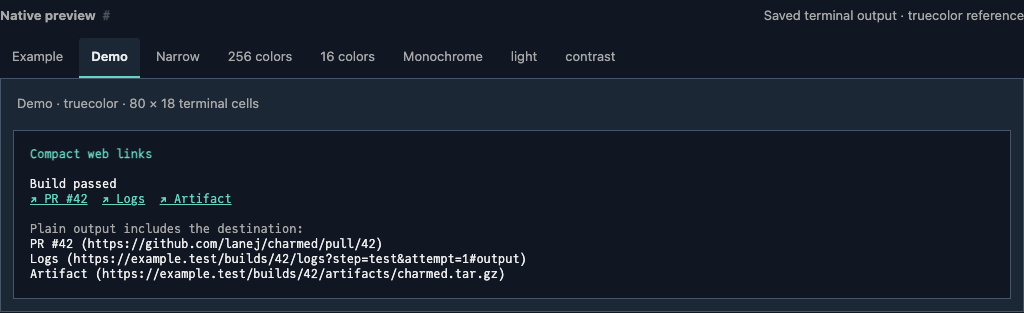
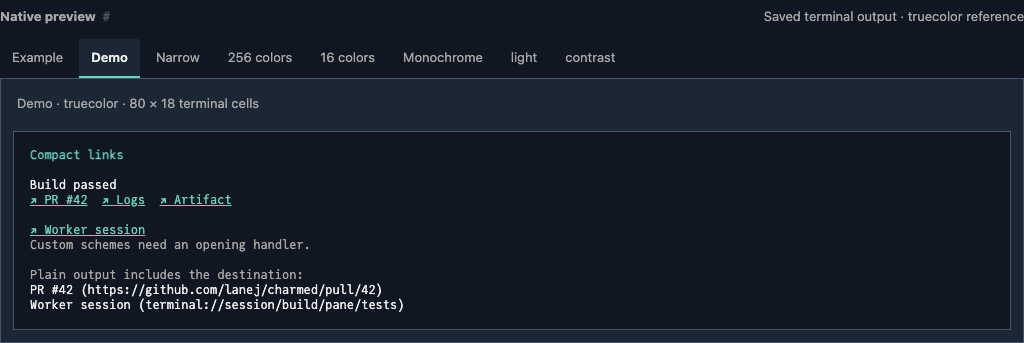
feat(text): layer web links over URI links
Detected-By: V3a

diff --git a/text/link_test.go b/text/link_test.go
@@ -93,7 +93,7 @@ func TestLinkEscapesLabelsAndRejectsInvalidTargets(t *testing.T) {
 		}
 	}
 
-	for _, target := range []string{"", "/relative", "https:opaque", "https:///no-host", "https://:443/path", "https://example.test/%zz", "file:///tmp/test", "javascript:alert(1)", "terminal://session/worker", "https://example.test/with space", "https://example.test/\n", "https://example.test/\x1b\\", "https://example.test/\a", "https://example.test/\u009c", "https://example.test/\u202e", "https://example.test/\xff"} {
+	for _, target := range []string{"", "/relative", "//example.test/path", "1bad:target", "https://[::", "https://example.test/%zz", "https://example.test/?q=%zz", "mailto:dev@example.test?subject=%zz", "custom:%zz", "custom:incomplete%", "https://example.test/with space", "https://example.test/\n", "https://example.test/\x1b\\", "https://example.test/\a", "https://example.test/\u009c", "https://example.test/\u202e", "https://example.test/\xff"} {
 		invalid := text.Link{Label: "Logs", URL: target}
 		if got, err := invalid.View(palette); err == nil || got != "" {
 			t.Fatalf("invalid target emitted output: %q => %q, %v", target, got, err)
@@ -101,6 +101,10 @@ func TestLinkEscapesLabelsAndRejectsInvalidTargets(t *testing.T) {
 
 		if got, err := invalid.Plain(); err == nil || got != "" {
 			t.Fatalf("plain accepted invalid target: %q", target)
+		}
+
+		if got, err := text.NewWebLink("Logs", target); err == nil || got != (text.Link{}) {
+			t.Fatalf("web helper accepted invalid target: %q", target)
 		}
 	}
 
@@ -141,5 +145,59 @@ func TestLinkCompositionSurvivesCellClipping(t *testing.T) {
 				}
 			}
 		}
+	}
+}
+
+func TestLinkSupportsHierarchicalAndOpaqueURIs(t *testing.T) {
+	palette := theme.New(theme.Dark)
+
+	for _, target := range []string{
+		"file:///tmp/build%20output.log",
+		"ssh://dev@example.test:2222/work",
+		"mailto:dev@example.test?subject=Build%2042",
+		"urn:example:build:42",
+		"terminal://session/build/pane/tests",
+		"custom:opaque-destination",
+	} {
+		link := text.Link{Label: "Destination", URL: target}
+
+		view, err := link.View(palette)
+		if err != nil {
+			t.Fatalf("%s: %v", target, err)
+		}
+
+		for _, cell := range uv.NewStyledString(view).Lines(ansi.GraphemeWidth)[0] {
+			if cell.Width > 0 && cell.Link.URL != target {
+				t.Fatalf("general link changed target %q to %q", target, cell.Link.URL)
+			}
+		}
+
+		plain, err := link.Plain()
+		if err != nil || plain != "Destination ("+target+")" {
+			t.Fatalf("general link lost plain destination: %q, %v", plain, err)
+		}
+	}
+}
+
+func TestWebLinkLayersValidationOverGeneralLink(t *testing.T) {
+	for _, target := range []string{"https://example.test/a%2Fb?b=2&a=1#output", "http://localhost:8080/logs", "HTTPS://EXAMPLE.test/logs"} {
+		link, err := text.NewWebLink("Logs", target)
+		if err != nil {
+			t.Fatal(err)
+		}
+
+		if link != (text.Link{Label: "Logs", URL: target}) {
+			t.Fatalf("web helper changed the general link value: %#v", link)
+		}
+	}
+
+	for _, target := range []string{"https:opaque", "https:///no-host", "https://:443/path", "file:///tmp/test", "mailto:dev@example.test", "urn:example:42", "terminal://session/worker", "javascript:alert(1)"} {
+		if got, err := text.NewWebLink("Logs", target); err == nil || got != (text.Link{}) {
+			t.Fatalf("web helper accepted %q: %#v, %v", target, got, err)
+		}
+	}
+
+	if got, err := text.NewWebLink("", "https://example.test"); err == nil || got != (text.Link{}) {
+		t.Fatal("web helper skipped shared label validation")
 	}
 }

diff --git a/text/link.go b/text/link.go
@@ -10,9 +10,10 @@ import (
 	"github.com/lanej/charmed/theme"
 )
 
-// Link associates a plain-text label with an exact HTTP or HTTPS destination.
+// Link associates a plain-text label with an exact absolute URI destination.
 // Rendering performs no I/O, terminal detection or opening. Applications choose
 // View for hyperlink-capable output and Plain for logs or unsupported terminals.
+// Scheme handling and permission to open a target belong to the application.
 type Link struct {
 	Label string
 	URL   string
@@ -22,7 +23,7 @@ type Link struct {
 // The target covers only this atom; labels are escaped rather than interpreted
 // as ANSI. Invalid links return an error and no terminal output.
 func (l Link) View(t theme.Theme) (string, error) {
-	if err := l.validate(); err != nil {
+	if _, err := l.validate(); err != nil {
 		return "", err
 	}
 
@@ -33,28 +34,51 @@ func (l Link) View(t theme.Theme) (string, error) {
 // Plain includes the full destination without emitting any terminal controls.
 // Use this instead of stripping View, which would discard its hidden target.
 func (l Link) Plain() (string, error) {
-	if err := l.validate(); err != nil {
+	if _, err := l.validate(); err != nil {
 		return "", err
 	}
 
 	return Inline(l.Label) + " (" + l.URL + ")", nil
 }
 
-func (l Link) validate() error {
+// NewWebLink applies web-specific validation, then returns the general Link value.
+// Both helpers share View and Plain; the destination is never normalized.
+func NewWebLink(label, target string) (Link, error) {
+	link := Link{Label: label, URL: target}
+
+	parsed, err := link.validate()
+	if err != nil {
+		return Link{}, err
+	}
+
+	if (parsed.Scheme != "http" && parsed.Scheme != "https") || parsed.Hostname() == "" || parsed.Opaque != "" {
+		return Link{}, errors.New("web link URL must be an absolute HTTP or HTTPS URL with a host")
+	}
+
+	return link, nil
+}
+
+func (l Link) validate() (*url.URL, error) {
 	if strings.TrimSpace(l.Label) == "" {
-		return errors.New("link label must not be empty")
+		return nil, errors.New("link label must not be empty")
 	}
 
 	if !utf8.ValidString(l.URL) || strings.ContainsFunc(l.URL, func(r rune) bool {
 		return unicode.IsControl(r) || unicode.IsSpace(r) || unicode.In(r, unicode.Cf)
 	}) {
-		return errors.New("link URL must not contain controls, whitespace or invalid UTF-8")
+		return nil, errors.New("link URL must not contain controls, whitespace or invalid UTF-8")
+	}
+
+	// rationale: url.Parse leaves opaque and query escapes unchecked. Validate
+	// escapes across the original URI without using or emitting its decoded form.
+	if _, err := url.PathUnescape(l.URL); err != nil {
+		return nil, errors.New("link URL contains an invalid percent escape")
 	}
 
 	target, err := url.Parse(l.URL)
-	if err != nil || target == nil || (target.Scheme != "http" && target.Scheme != "https") || target.Hostname() == "" || target.Opaque != "" {
-		return errors.New("link URL must be an absolute HTTP or HTTPS URL with a host")
+	if err != nil || target == nil || !target.IsAbs() {
+		return nil, errors.New("link URL must be an absolute URI with a scheme")
 	}
 
-	return nil
+	return target, nil
 }

diff --git a/story/links.go b/story/links.go
@@ -12,7 +12,7 @@ import (
 
 func linkStory(e Environment) (runtime.Scene, error) {
 	palette := e.Config.Palette()
-	links := []text.Link{
+	webTargets := []text.Link{
 		{Label: "PR #42", URL: "https://github.com/lanej/charmed/pull/42"},
 		{Label: "Logs", URL: "https://example.test/builds/42/logs?step=test&attempt=1#output"},
 		{Label: "Artifact", URL: "https://example.test/builds/42/artifacts/charmed.tar.gz"},
@@ -20,7 +20,12 @@ func linkStory(e Environment) (runtime.Scene, error) {
 
 	var compact, plain []string
 
-	for _, link := range links {
+	for _, target := range webTargets {
+		link, err := text.NewWebLink(target.Label, target.URL)
+		if err != nil {
+			return nil, err
+		}
+
 		view, err := link.View(palette)
 		if err != nil {
 			return nil, err
@@ -35,14 +40,26 @@ func linkStory(e Environment) (runtime.Scene, error) {
 		plain = append(plain, fallback)
 	}
 
+	session := text.Link{Label: "Worker session", URL: "terminal://session/build/pane/tests"}
+
+	sessionView, err := session.View(palette)
+	if err != nil {
+		return nil, err
+	}
+
+	sessionPlain, err := session.Plain()
+	if err != nil {
+		return nil, err
+	}
+
 	return static(func(size layout.Size) string {
 		row := strings.Join(compact, "  ")
 		if size.Width < 40 {
 			row = strings.Join(compact, "\n")
 		}
 
-		rows := []string{palette.Heading().Render("Compact web links"), "", "Build passed", row, "", palette.Subtle().Render("Plain output includes the destination:")}
-		for _, value := range plain {
+		rows := []string{palette.Heading().Render("Compact links"), "", "Build passed", row, "", sessionView, palette.Subtle().Render("Custom schemes need an opening handler."), "", palette.Subtle().Render("Plain output includes the destination:")}
+		for _, value := range []string{plain[0], sessionPlain} {
 			rows = append(rows, lipgloss.Wrap(value, size.Width, ""))
 		}
 

diff --git a/story/atoms.go b/story/atoms.go
@@ -22,7 +22,7 @@ import (
 
 func atomsDefinitions() []Definition {
 	d := []Definition{
-		{ID: "text/link", Title: "Atoms/Text/Web link", Level: "Atoms", Family: "text", Description: "Compact underlined labels carry exact HTTP/HTTPS targets through OSC 8. The terminal owns hover and opening; Plain retains destinations without terminal controls. Saved previews show styling only.", Source: "text/link.go", Symbol: "Link", Defaults: func() Config { c := atomConfig(); c.Rows = 18; return c }(), Factory: linkStory},
+		{ID: "text/link", Title: "Atoms/Text/Link", Level: "Atoms", Family: "text", Description: "Compact underlined labels carry exact absolute URIs through OSC 8; NewWebLink adds HTTP/HTTPS validation. The terminal owns hover and opening; Plain retains destinations without terminal controls. Saved previews show styling only.", Source: "text/link.go", Symbol: "Link", Defaults: func() Config { c := atomConfig(); c.Rows = 18; return c }(), Factory: linkStory},
 		widget("text/primitives", "Atoms/Text/Primitives", "Atoms", "text", "Labels, badges and keyboard hints share semantic roles.", "textStory", []string{"value"}, textStory),
 		widget("input/text", "Atoms/Input/Text", "Atoms", "input", "A focused input with a native virtual cursor and shared theme.", "inputStory", []string{"value", "state"}, inputStory),
 		widget("input/textarea", "Atoms/Input/Textarea", "Atoms", "input", "Multiline input with native editing and bounded dimensions.", "areaStory", []string{"value"}, areaStory),

diff --git a/docs/snippets/text_link.go b/docs/snippets/text_link.go
@@ -6,7 +6,10 @@ import (
 )
 
 func ExampleTextLink() (string, error) {
-	link := text.Link{Label: "PR #42", URL: "https://github.com/lanej/charmed/pull/42"}
+	link, err := text.NewWebLink("PR #42", "https://github.com/lanej/charmed/pull/42")
+	if err != nil {
+		return "", err
+	}
 
 	compact, err := link.View(theme.New(theme.Dark))
 	if err != nil {
@@ -18,5 +21,12 @@ func ExampleTextLink() (string, error) {
 		return "", err
 	}
 
-	return compact + "\n" + plain, nil
+	session := text.Link{Label: "Worker session", URL: "terminal://session/build/pane/tests"}
+
+	sessionView, err := session.View(theme.New(theme.Dark))
+	if err != nil {
+		return "", err
+	}
+
+	return compact + "\n" + sessionView + "\n" + plain, nil
 }

diff --git a/docs/components.md b/docs/components.md
@@ -72,10 +72,14 @@ Unicode is the default visual language. Checkboxes use `☐ / ☑ / ▣`, radios
 
 Set `Theme.ASCII` for the textual fallback; this is independent of the terminal color profile. Neither glyphs nor active color replace state labels or application data. All named glyphs occupy one terminal cell, and each control reserves equal indicator geometry across its own state variants. The Unicode switch track is wider than its ASCII fallback, so parents should measure the rendered view when allocating controls.
 
-## Compact web links
+## Compact links
 
-[Web links](atoms-text.html#text/link) keep `text.Link{Label, URL}` separate: `View(palette)` returns an underlined label with the named link glyph and an OSC 8 hyperlink containing the exact destination. The glyph appears before the label (`↗ PR #42`, or `@ PR #42` with `Theme.ASCII`); color supplements the persistent underline and mark. Labels are escaped plain text, including newlines and caller-supplied ANSI. Rendering returns an error and no output for an empty label, unsupported scheme, missing host, malformed URL, or a target containing whitespace, terminal controls, Unicode format controls or invalid UTF-8. The zero value is invalid. Only absolute HTTP/HTTPS destinations are supported in this first slice; existing `FormatURL` display behavior is unchanged.
+[Links](atoms-text.html#text/link) keep a plain-text `Label` separate from an exact `URL`. Use `text.Link{Label: "Worker session", URL: "terminal://session/build/pane/tests"}` for an arbitrary absolute URI, including custom schemes, hierarchical addresses such as `file:///tmp/output.log`, and opaque addresses such as `mailto:dev@example.test` or `urn:example:build:42`. The renderer validates URI syntax and terminal-safe encoding; it does not decide which schemes an application permits opening.
 
-Applications choose `View` for output known to preserve hyperlinks and `Plain()` for redirected output, logs or unsupported terminals. `Plain` returns `label (full URL)` without terminal controls; stripping ANSI from `View` loses the hidden destination. Charmed does not probe the terminal, open links, install handlers, copy to the clipboard or manage link selection. Each atom closes its hyperlink before adjacent content; callers can compose links into rows and panels and use the existing cell-aware layout functions. Retain `URL` for application inspection/copy actions and render separate labels for multiple related destinations.
+`text.NewWebLink(label, target)` layers HTTP/HTTPS and nonempty-host validation over `Link` and returns that same general value. There is one renderer and one plain fallback for both helpers. The constructor validates at creation; callers own subsequent changes to the returned value's public fields. Destinations are never normalized or abbreviated, and existing `FormatURL` display behavior is unchanged.
 
-In Kitty, [hyperlink hints](https://sw.kovidgoyal.net/kitty/kittens/hints/) (`kitten hints --type=hyperlink`) select explicit links by keyboard. [Target inspection](https://sw.kovidgoyal.net/kitty/conf/#opt-kitty.show_hyperlink_targets) can reveal destinations on hover. These interactions belong to the terminal and depend on its installed version and configuration; Charmed's saved static previews show label styling only, without active HTML links. Color/ASCII settings do not establish hyperlink capability. Multiplexer, SSH and actual Kitty interaction remain separate integration checks under [the terminal-links problem](https://github.com/lanej/charmed/issues/37). Pane/session destinations and process launching are later work.
+`link.View(palette)` returns an underlined label with the named link glyph and an OSC 8 hyperlink containing the exact destination. The glyph appears before the label (`↗ PR #42`, or `@ PR #42` with `Theme.ASCII`); color supplements the underline and mark. Labels are escaped plain text, including newlines and caller-supplied ANSI. Rendering returns an error and no output for an empty label, a malformed or relative URI, or a target containing whitespace, terminal controls, Unicode format controls or invalid UTF-8. The zero value is invalid. Scheme-specific semantics belong to the web helper or the application's handler.
+
+Applications choose `View` for output known to preserve hyperlinks and `Plain()` for redirected output, logs or unsupported terminals. `Plain` returns `label (full URI)` without terminal controls; stripping ANSI from `View` loses the hidden destination. Each atom closes its hyperlink before adjacent content; compose links with the existing cell-aware layout functions. Retain `URL` for application inspection/copy actions and render separate labels for multiple related destinations.
+
+Charmed does not probe the terminal, open links, install handlers, copy to the clipboard or manage link selection. Custom schemes require a configured handler; emitting a `terminal:` target does not implement session navigation or launch a process. In Kitty, [hyperlink hints](https://sw.kovidgoyal.net/kitty/kittens/hints/) (`kitten hints --type=hyperlink`) select explicit links by keyboard. [Target inspection](https://sw.kovidgoyal.net/kitty/conf/#opt-kitty.show_hyperlink_targets) can reveal destinations on hover. These interactions depend on the terminal's installed version, configuration and handler policy. Saved static previews show styling only, without active HTML links. Color/ASCII settings do not establish hyperlink capability. Actual Kitty, multiplexer and SSH behavior remain separate integration checks under [the terminal-links problem](https://github.com/lanej/charmed/issues/37).
